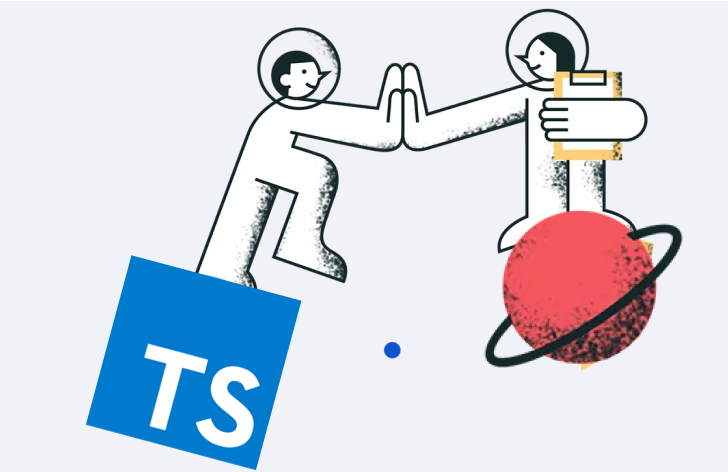
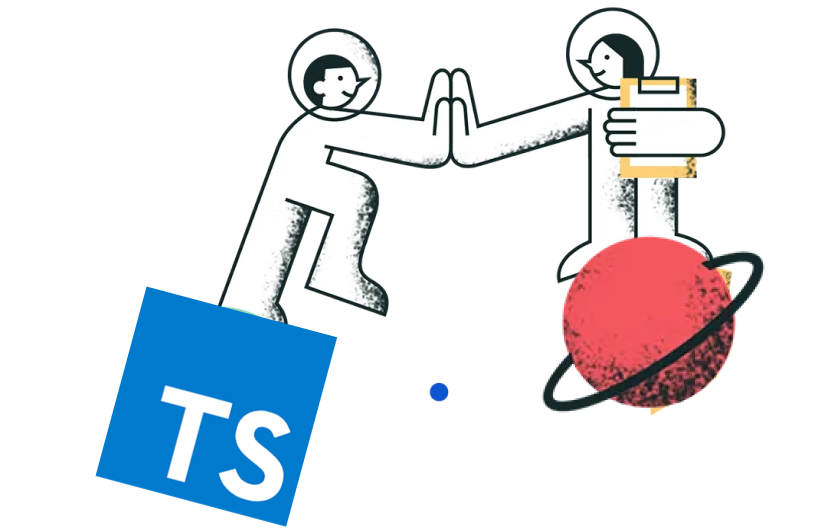
fix: COM-1305 исправляет картинки и отступы

diff --git a/components/technologies/Autotests/Autotests.styles.js b/components/technologies/Autotests/Autotests.styles.js
@@ -108,11 +108,11 @@ const base = ({ breakpoints: { desktop, tablet, mobile }, colors}) => css`
 
   ${tablet.all} {
     & {
-      padding-top: ${calcRem(137)};
+      padding-top: ${calcRem(129)};
       min-height: ${calcRem(517)};
       background-image: url(${require('../../../static/icons/technologies/autotests/lines_tablet_all.svg').default});
       background-size: ${calcRem(1280)};
-      background-position-y: ${calcRem(32)};
+      background-position-y: ${calcRem(24)};
     }
 
     .title {
@@ -131,7 +131,7 @@ const base = ({ breakpoints: { desktop, tablet, mobile }, colors}) => css`
 
   ${mobile.all} {
     & {
-      padding-top: ${calcRem(99)};
+      margin-top: ${calcRem(98)};
       background-image: url(${require('../../../static/icons/technologies/autotests/lines_mobile_all_top.svg').default});
       background-size: 100%;
     }
@@ -151,7 +151,7 @@ const base = ({ breakpoints: { desktop, tablet, mobile }, colors}) => css`
       &::after {
         content: '';
         position: absolute;
-        top: calc(100 + ${calcRem(6)});
+        bottom:${calcRem(-78)};
         left: ${calcRem(112)};
         display: block;
         width: ${calcRem(161)};

diff --git a/components/technologies/Frontend/Frontend.styles.js b/components/technologies/Frontend/Frontend.styles.js
@@ -228,16 +228,16 @@ const base = ({ breakpoints: { desktop, tablet, mobile }, colors}) => css`
     }
 
     .picture_angular {
-      margin-top: ${calcRem(119)};
+      margin-top: ${calcRem(158)};
       height: ${calcRem(152)};
     }
 
     .title_angular {
-      margin-top: ${calcRem(101)};
+      margin-top: ${calcRem(133)};
     }
 
     .text_angular {
-      margin-top: ${calcRem(25)};
+      margin-top: ${calcRem(57)};
     }
   }
 

diff --git a/components/technologies/Backend/Backend.styles.js b/components/technologies/Backend/Backend.styles.js
@@ -206,7 +206,7 @@ const base = ({ breakpoints: { desktop, tablet, mobile }, colors}) => css`
     }
 
     .title_node {
-      margin-top: ${calcRem(46)};
+      margin-top: ${calcRem(15)};
     }
 
     .text_kotlin {
